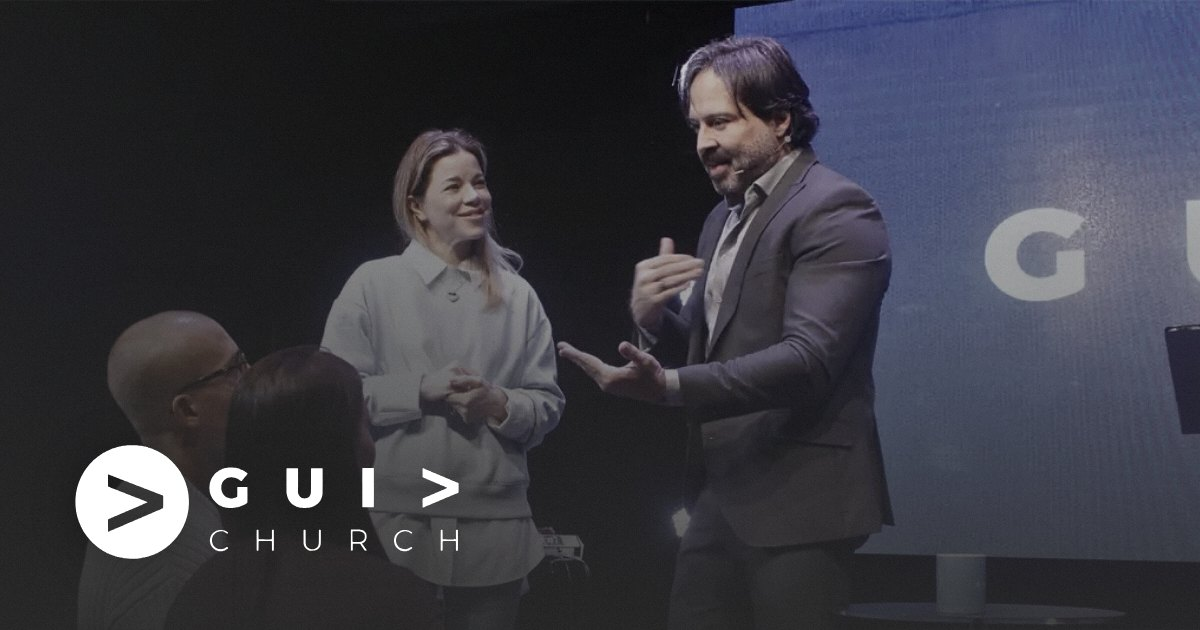
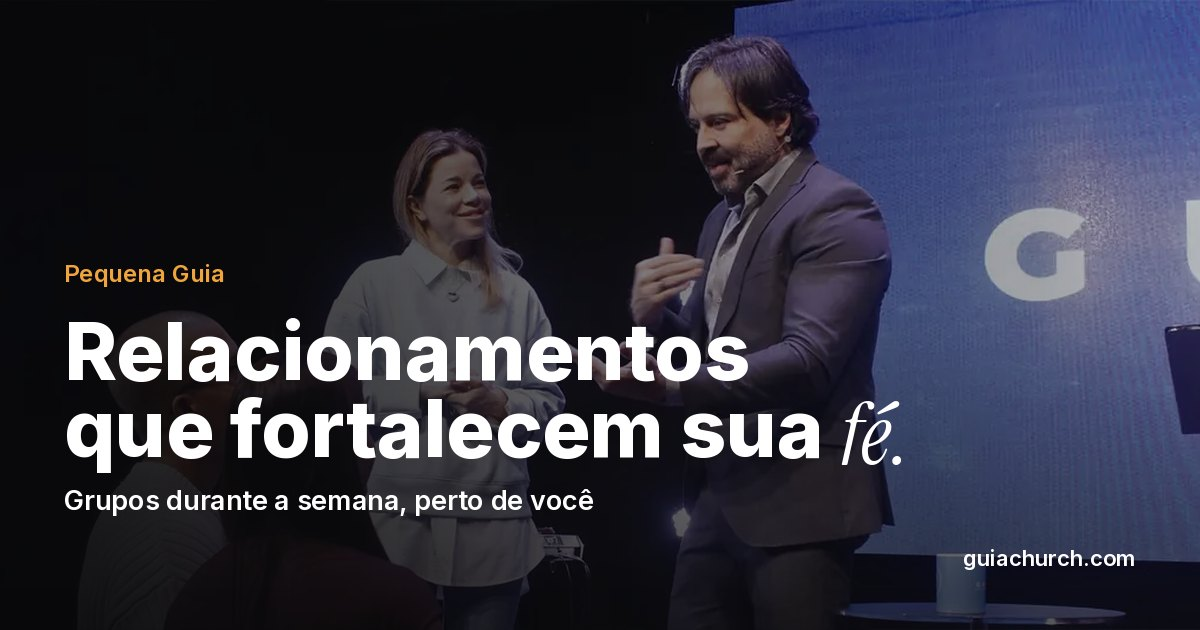
Site: cartões de prévia (Open Graph) na identidade nova; pílula Agora para /cultos
- scripts/og-cartoes.py gera public/og*.jpg (home, cultos, como chegar,
  quem somos, pequena guia, acessar) no desenho da /servir: foto tratada
  com véu, chapéu laranja, título em duas vozes (Inter 800 + Instrument
  Serif itálica com ponto) e linha de apoio. Até aqui eram só foto e marca.
  As fontes são as de public/tipos (a Inter variável instanciada em 800).
- components/Agora.tsx: "Como chegar" da pílula viva aponta para
  /cultos#como-chegar, onde o mapa mora desde 11/10.

Claude-Session: https://claude.ai/code/session_01TtgGYb8ZgsPdm7G6QrM8cx

diff --git a/components/Agora.tsx b/components/Agora.tsx
@@ -31,7 +31,7 @@ export function Agora({ pill }: { pill?: boolean } = {}) {
 
   const f = o ? fraseDoAgora(o) : { quando: `${IGREJA.cultoDia}, ${IGREJA.cultoHora}`, oque: 'Culto de domingo' };
 
-  let acao: { href: string; rot: string; fora?: boolean } = { href: '/como-chegar', rot: 'Como chegar' };
+  let acao: { href: string; rot: string; fora?: boolean } = { href: '/cultos#como-chegar', rot: 'Como chegar' };
   if (o?.evento.tipo === 'grupo' && o.evento.grupo) {
     const g = o.evento.grupo;
     const waze = wazeDaPequenaGuia(g);

diff --git a/scripts/og-cartoes.py b/scripts/og-cartoes.py
@@ -1,0 +1,118 @@
+"""OS CARTÕES DE PRÉVIA (Open Graph) NA IDENTIDADE NOVA — 11/10/2026
+
+Até aqui os cartões das páginas públicas (o que o WhatsApp e o Instagram
+mostram quando alguém cola o link) eram só a foto com a marca em cima. O da
+/servir já tinha a identidade do ApresentaSite.pdf: chapéu laranja, título em
+duas vozes (Inter 800 + Instrument Serif itálica com ponto) e uma linha de
+apoio. Este script gera todos os outros no mesmo desenho, a partir das fotos
+de public/fotos e das fontes de public/tipos (as mesmas do site).
+
+Uso: python3 scripts/og-cartoes.py        (grava public/og*.jpg, 1200×630)
+Precisa de Pillow e fontTools (com brotli, para ler woff2).
+"""
+from PIL import Image, ImageDraw, ImageFont, ImageFilter
+from fontTools.ttLib import TTFont
+from fontTools.varLib import instancer
+import io, os
+
+RAIZ = os.path.join(os.path.dirname(__file__), '..')
+FOTOS = os.path.join(RAIZ, 'public', 'fotos')
+TIPOS = os.path.join(RAIZ, 'public', 'tipos')
+SAIDA = os.path.join(RAIZ, 'public')
+W, H = 1200, 630
+OURO = (240, 164, 60)
+
+def fonte_ttf(caminho_woff2, peso=None):
+    f = TTFont(caminho_woff2)
+    if peso is not None and 'fvar' in f:
+        f = instancer.instantiateVariableFont(f, {'wght': peso})
+    f.flavor = None
+    b = io.BytesIO(); f.save(b); b.seek(0)
+    return b.getvalue()
+
+INTER = fonte_ttf(os.path.join(TIPOS, 'inter.woff2'), 800)
+INTER_600 = fonte_ttf(os.path.join(TIPOS, 'inter.woff2'), 600)
+SERIF = fonte_ttf(os.path.join(TIPOS, 'instrument-serif-italic.woff2'))
+
+def F(dados, tam):
+    return ImageFont.truetype(io.BytesIO(dados), tam)
+
+def foto(nome, foco=(0.5, 0.5)):
+    im = Image.open(os.path.join(FOTOS, nome)).convert('RGB')
+    # cobre 1200×630 como object-fit: cover, com o foco
+    r = max(W / im.width, H / im.height)
+    im = im.resize((round(im.width * r), round(im.height * r)), Image.LANCZOS)
+    x = round((im.width - W) * foco[0]); y = round((im.height - H) * foco[1])
+    im = im.crop((x, y, x + W, y + H))
+    # saturação um pouco abaixo, como no site (filter: saturate(.86))
+    cinza = im.convert('L').convert('RGB')
+    im = Image.blend(cinza, im, 0.86)
+    # véu: pesado à esquerda e embaixo, como o herói
+    veu = Image.new('RGBA', (W, H), (0, 0, 0, 0))
+    d = ImageDraw.Draw(veu)
+    for i in range(W):
+        a = int(200 * (1 - i / W) ** 1.1 + 40)
+        d.line([(i, 0), (i, H)], fill=(8, 8, 10, min(230, a)))
+    base = Image.new('RGBA', (W, H)); base.paste(im)
+    base = Image.alpha_composite(base, veu)
+    veu2 = Image.new('RGBA', (W, H), (0, 0, 0, 0)); d2 = ImageDraw.Draw(veu2)
+    for j in range(H):
+        a = int(150 * max(0, (j - H * 0.45) / (H * 0.55)) ** 1.2)
+        d2.line([(0, j), (W, j)], fill=(8, 8, 10, a))
+    return Image.alpha_composite(base, veu2).convert('RGB')
+
+def marca(im):
+    """a marca GUI> CHURCH no canto de baixo à direita, em branco"""
+    d = ImageDraw.Draw(im)
+    f = F(INTER_600, 22)
+    txt = 'guiachurch.com'
+    w = d.textlength(txt, font=f)
+    d.text((W - 64 - w, H - 64 - 22), txt, font=f, fill=(255, 255, 255, 230))
+
+def titulo(d, linhas, y, tam, x=64, cor=(255, 255, 255)):
+    """linhas: lista de (texto, italico). A última palavra itálica ganha o ponto."""
+    fi = F(INTER, tam); fs = F(SERIF, round(tam * 1.06))
+    lh = round(tam * 0.96)
+    for linha in linhas:
+        cx = x
+        for pal, it in linha:
+            f = fs if it else fi
+            d.text((cx, y), pal, font=f, fill=cor)
+            cx += d.textlength(pal, font=f) + d.textlength(' ', font=fi) * 0.9
+        y += lh
+    return y
+
+def cartao(nome_saida, arquivo_foto, chapeu, linhas, apoio, foco=(0.5, 0.5), tam=92):
+    im = foto(arquivo_foto, foco)
+    d = ImageDraw.Draw(im)
+    n = len(linhas)
+    alt_tit = round(tam * 0.96) * n
+    y0 = H - 64 - 40 - 30 - alt_tit - 36 - 24 - round(tam * 0.3)
+    d.text((64, y0), chapeu, font=F(INTER_600, 24), fill=OURO)
+    y = titulo(d, linhas, y0 + 24 + 20, tam)
+    d.text((64, y + round(tam * 0.34)), apoio, font=F(INTER_600, 27), fill=(255, 255, 255))
+    marca(im)
+    im.save(os.path.join(SAIDA, nome_saida), 'JPEG', quality=86, optimize=True, progressive=True)
+    print(nome_saida)
+
+P = lambda s: [(w, False) for w in s.split(' ')]
+IT = lambda s: [(s, True)]
+
+cartao('og.jpg', 'pregacao.webp', 'GUIA Church · Barra da Tijuca',
+       [P('Cultivando uma'), P('nova') + IT('cultura.')],
+       'Domingos às 10h · Follow aos sábados às 19h', foco=(0.6, 0.3))
+cartao('og-cultos.jpg', 'louvor-pb.webp', 'Cultos · Domingo, 10h',
+       [P('Um domingo'), P('para') + IT('pertencer.')],
+       'Rua Pedra de Itaúna, 534 · Barra da Tijuca', foco=(0.5, 0.25))
+cartao('og-como-chegar.jpg', 'predio.webp', 'Onde fica',
+       [P('Como') + IT('chegar.')],
+       'Rua Pedra de Itaúna, 534 · Barra da Tijuca, Rio de Janeiro', foco=(0.5, 0.4))
+cartao('og-sobre.jpg', 'abraco-palco.webp', 'Quem somos',
+       [P('Uma comunidade que'), P('cultiva uma nova') + IT('cultura.')],
+       'Grupo Unido, Interagindo e Avançando', foco=(0.5, 0.3), tam=76)
+cartao('og-pequena-guia.jpg', 'acolhida.webp', 'Pequena Guia',
+       [P('Relacionamentos'), P('que fortalecem sua') + IT('fé.')],
+       'Grupos durante a semana, perto de você', foco=(0.5, 0.4), tam=80)
+cartao('og-acessar.jpg', 'midia.webp', 'Acesso às equipes',
+       [P('Quem é') + IT('você?')],
+       'Sou voluntário · Sou da organização · Quero participar', foco=(0.5, 0.5))
